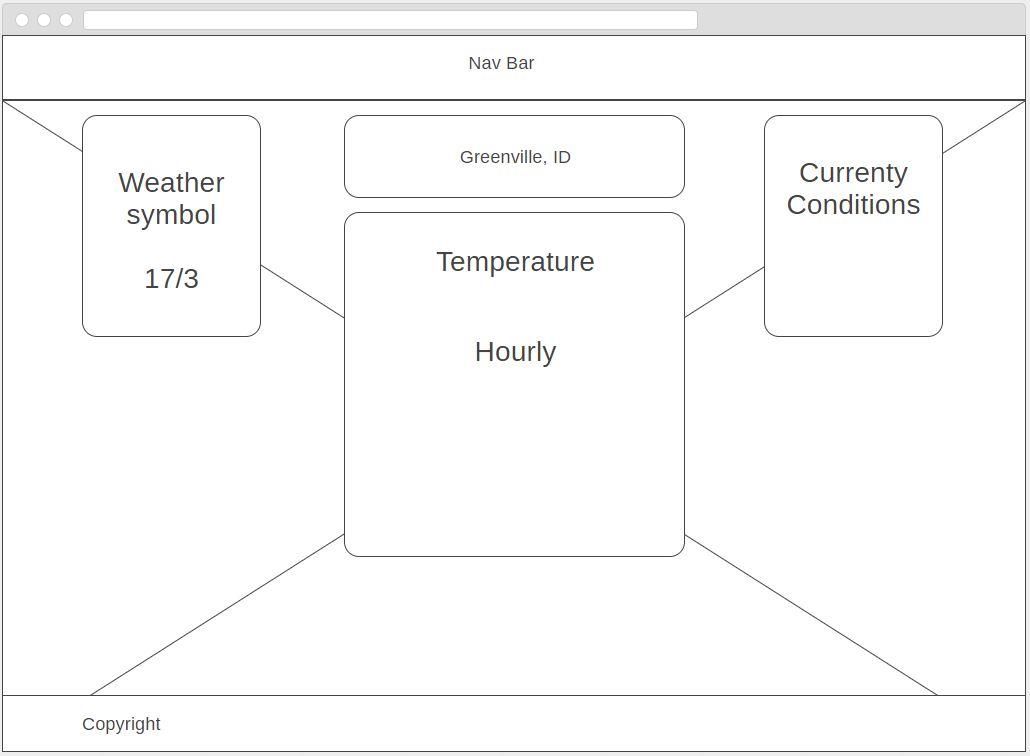
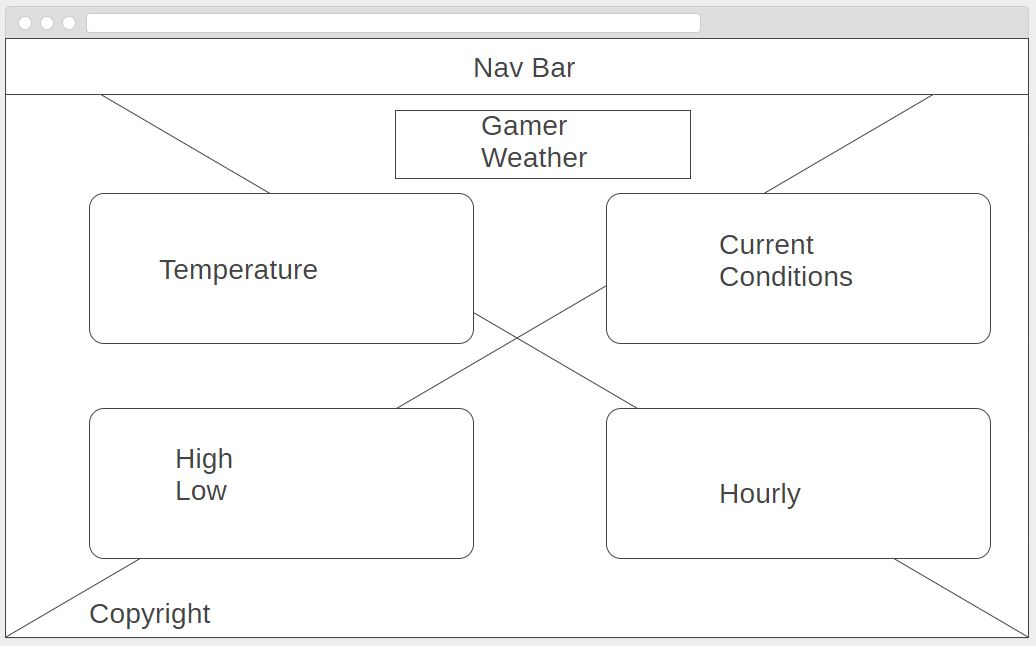
Greenville Page and link to homepage

diff --git a/homework/greenville-styled.html b/homework/greenville-styled.html
@@ -1,0 +1,103 @@
+<!doctype html>
+<html lang="en-us">
+
+<head>
+    <meta charset='utf-8'>
+    <title>Greenville Weather Site | CIT 230 class | Frontend Developement</title>
+    <meta name="description" content="short description of the site">
+    <meta name="viewport" content="width=device-width">
+    <link href="https://fonts.googleapis.com/css?family=Roboto" rel="stylesheet">
+    <link rel="stylesheet" type="text/css" href="../css/greenville-css.css">
+</head>
+
+<body>
+
+    <div class="container">
+        <nav>
+
+            <ul>
+                <li class="mynav"><a href="../index.html">Home</a></li>
+                <li class="mynav"><a href="">Franklin</a></li>
+                <li class="mynav"><a href="">Greenville</a></li>
+                <li class="mynav"><a href="">Springfield</a></li>
+                <li class="mynav"><a href="">Search</a></li>
+            </ul>
+
+        </nav>
+
+        <header>
+            <div class="title">
+                <h1>Gamer Weather</h1>
+                <h2>What's The Weather Like?</h2>
+                <h3>I Don't Know: I'm Too Busy GAMING</h3>
+            </div>
+        </header>
+        <main>
+
+            <div class="flex-container">
+                <div class="flex-parent">
+                    <div class="flex-child">
+                        <h1 id="temperature">17 &#8457; </h1>
+                    </div>
+                    <div class="flex-child">
+                        <div class="high-low">
+                            <h1>High</h1>
+                            <p>80&deg;</p>
+                            <h1>Low</h1>
+                            <p>68&deg;</p>
+                        </div>
+                    </div>
+                </div>
+                <div class="flex-parent">
+                    <div class="flex-child">
+                        <div class="arrange">
+
+                            <h1>Current Conditions</h1>
+                            <p>Wind: 1 - 5 MPH Southwest</p>
+                            <p>Precipitation: 0 in</p>
+                        </div>
+
+                    </div>
+                    <div class="flex-child" id="hourly">
+                        <div class="arrange">
+
+
+                            <h1>Hourly Forecast</h1>
+                            <ul>
+                                <li><span>6:00am</span> <span>68</span></li>
+                                <li><span>7:00am</span> <span>72</span></li>
+                                <li><span>8:00am</span> <span>74</span></li>
+                                <li><span>9:00am</span> <span>74</span></li>
+                                <li><span>10:00am</span> <span>75</span></li>
+                                <li><span>11:00am</span> <span>77</span></li>
+                                <li><span>12:00pm</span> <span>78</span></li>
+                                <li><span>1:00pm</span> <span>79</span></li>
+                                <li><span>2:00pm</span> <span>80</span></li>
+                                <li><span>3:00pm</span> <span>80</span></li>
+                                <li><span>4:00pm</span> <span>78</span></li>
+                                <li><span>5:00pm</span> <span>75</span></li>
+                                <li><span>6:00pm</span> <span>74</span></li>
+                                <li><span>7:00pm</span> <span>73</span></li>
+                                <li><span>8:00pm</span> <span>71</span></li>
+                                <li><span>9:00pm</span> <span>70</span></li>
+                                <li><span>10:00pm</span> <span>68</span></li>
+                            </ul>
+
+                        </div>
+                    </div>
+                </div>
+
+
+            </div>
+
+        </main>
+        <footer>
+                <ul>
+                    <li>&copy;2017 Cory Zwahlen <a href="../index.html">Link to Homepage</a></li>
+                </ul>
+
+        </footer>
+    </div>
+</body>
+
+</html>

diff --git a/sandbox/responsive-images/responsive-images/responsive-images.html b/sandbox/responsive-images/responsive-images/responsive-images.html
@@ -1,0 +1,66 @@
+<!doctype html>
+<html lang="en-us">
+    <head>
+        <meta charset="utf-8">
+        <title>Responsive Images example | CIT 230 class | Frontend development</title>
+        <meta name="description" content="Example site for learning how to use srcset, sizes, and picture" />
+        <meta name="viewport" content="width=device-width">
+        <style>
+            body {
+                max-width: 1600px;
+                margin: auto;
+            }
+            img {
+                max-width: 100%;
+            }
+            .media-box {
+                display: flex;
+                flex-flow: row wrap;
+            }
+            .media-box picture {
+                flex: 1 1 400px;
+                
+            }
+            .media-box img {
+/*                width: 100%;*/
+            }
+            .media-box > div {
+                flex: 1 1 50vw;
+            }
+            
+        </style>
+    </head>
+    <body>
+       <header>
+           <h1>Responsive Images</h1>
+           <nav>
+               <ul>
+                   <li><a href="index.html">Home</a> </li>
+                   
+               </ul>
+           </nav>
+       </header>
+       <main>
+        <!-- image 1 -->
+         <figure>
+             <img src="images/image-1-canyon-sq.jpg" alt="Grand canyon river shot">
+             <figcaption>Image 1: a Grand Canyon Colorado river shot</figcaption>
+         </figure>
+         <!--Image 2 -->
+          <section class="media-box">
+              <picture>
+                                       
+                  <img src="images/image-2-little-colorado.jpg" alt="The Little Colorado River" >
+              </picture>
+              <div><h2>The Little Colorado</h2>
+              <p>Lorem ipsum dolor sit amet, consectetur adipiscing elit. Nunc nunc lorem, viverra quis laoreet a, ullamcorper ut turpis. In aliquam diam turpis, ut tincidunt orci volutpat nec. Maecenas velit arcu, pellentesque ut faucibus at, egestas in felis. Aenean molestie venenatis sodales. Vivamus sodales orci sed magna posuere volutpat. Integer at neque risus. Proin metus arcu, cursus in massa sit amet, fermentum placerat quam. Nam vitae arcu felis. Class aptent taciti sociosqu ad litora torquent per conubia nostra, per inceptos himenaeos. Nulla tincidunt dignissim neque vitae varius. Vivamus pellentesque magna quis nisi luctus, vitae aliquet magna bibendum. Vestibulum ante ipsum primis.</p>
+              </div>
+          </section>
+       </main>
+       <footer>
+           &copy; 2017 Bro Thompson
+       </footer>
+        
+    </body>
+    
+</html>

diff --git a/css/greenville-css.css b/css/greenville-css.css
@@ -1,0 +1,141 @@
+*{
+    font-family: 'Roboto', sans-serif;
+}
+
+nav ul{
+    display: flex;
+    flex-direction: column;
+
+}
+.mynav{
+    text-align: center;
+}
+nav ul li a{
+    text-decoration: none;
+}
+
+.title{
+    border: 2px solid black;
+}
+h1{
+    text-align: center;
+}
+h2{
+    text-align: center;
+}
+h3{
+    text-align: center;
+}
+#temperature {
+    padding-top: 1.3em;
+}
+
+footer ul {
+    list-style-type: none;
+}
+
+footer li{
+    color: whitesmoke;
+}
+footer a{
+    color: goldenrod;
+    margin-left: 2em;
+}
+
+nav {
+    background-color: rgba(200,200,200,.2);
+}
+nav ul {
+    list-style-type: none;
+    margin: 0px;
+    padding-top: .8em;
+    padding-bottom: .5em;
+}
+nav a {
+    color: goldenrod;
+}
+
+.flex-container {
+    display: flex;
+    flex-grow: 1;
+}
+
+.flex-parent {
+    flex-direction: column;
+    flex-grow: 1;
+    width:60%;
+
+/*    flex-flow: row wrap;*/
+}
+.flex-child {
+    border: 2px solid black;
+    margin:10%;
+    width: 80%;
+    height: 25%;
+    background-color: rgba(200,200,200,.6);
+    border: 2px solid;
+    border-radius: 20px;
+}
+
+
+.arrange h1 {
+    font-size:  1.3em;
+}
+
+.high-low {
+    width: 100%;
+}
+.high-low h1 {
+    margin-top: .2em;
+    margin-bottom: .2em;
+
+
+}
+.high-low p {
+    margin: 0px;
+    padding-left: .5em;
+}
+
+#hourly {
+    overflow: scroll;
+}
+
+.arrange ul {
+    list-style-type: none;
+}
+.arrange ul {
+    padding-left: 10px
+}
+.arrange li {
+    display: flex;
+    justify-content: space-around
+}
+.title h1, .title h2, .title h3 {
+    margin: .2em;
+    color: whitesmoke;
+}
+
+.container {
+    background-image: url(../img/halo_tall_smaller.jpg);
+    background-size: cover;
+    margin: 0px;
+}
+body {
+    margin: 0px;
+}
+
+
+
+@media screen and (min-width: 500px) {
+    .container {
+        background-image:url(../img/halo.jpg);
+}
+    nav ul{
+        display: flex;
+        flex-direction: row;
+        flex-wrap: wrap;
+        justify-content: space-around;
+        font-size: 125%;
+
+    }
+}
